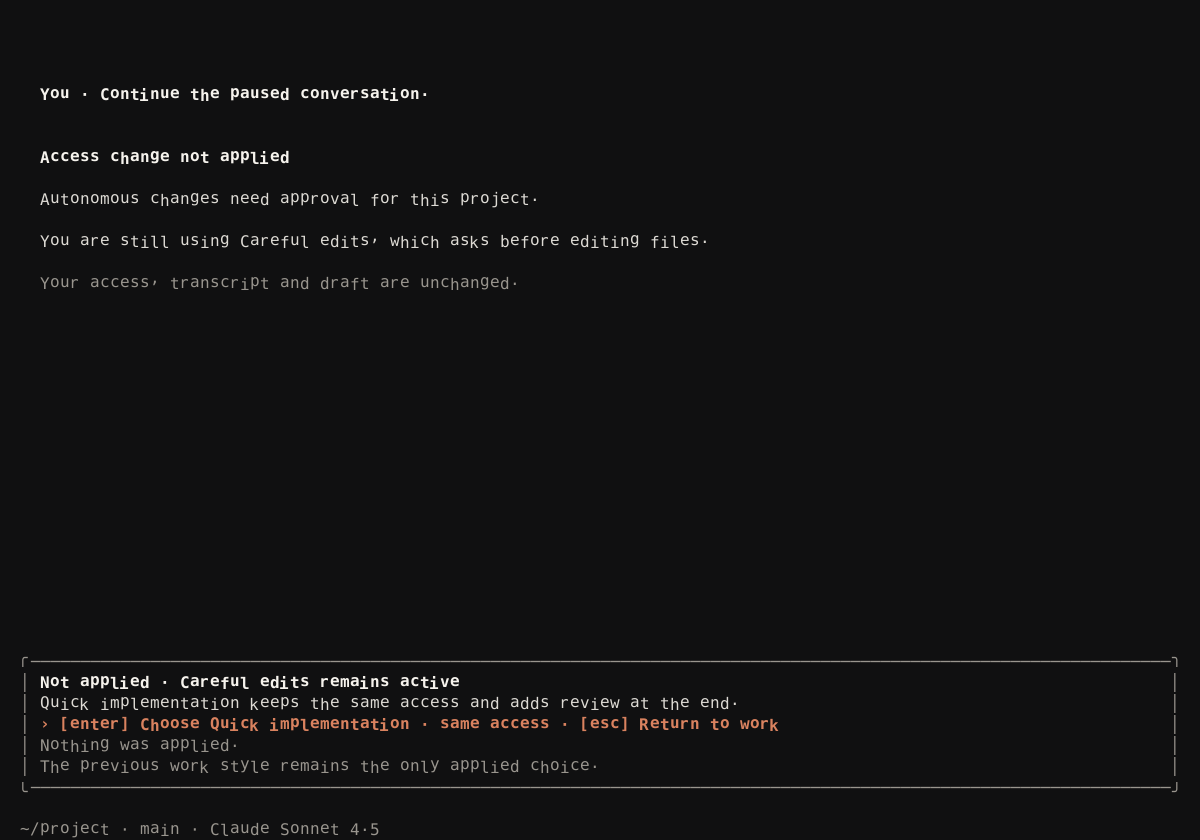
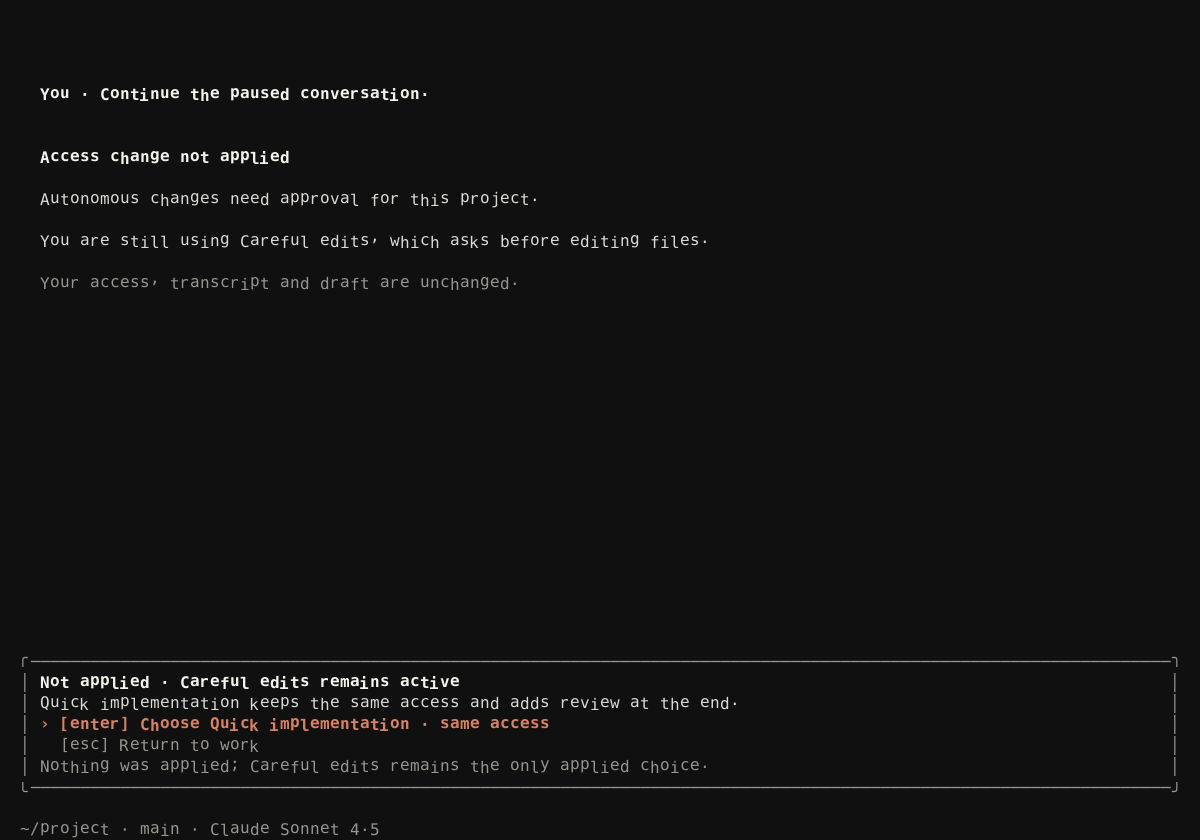
fix(mockups-v3): reconcile Flow 3 refusal action

Changed region(s): [[0.0308, 0.8667, 0.5858, 0.9286], [0.4933, 0.8357, 0.6475, 0.8667]]

diff --git a/tools-throwaway/mockup-harness-v3/tests/flow3_work_style_access.rs b/tools-throwaway/mockup-harness-v3/tests/flow3_work_style_access.rs
@@ -110,6 +110,18 @@ fn refusal_keeps_current_style_and_offers_one_safe_next_action() {
     assert!(text.contains("Quick implementation keeps the same access"));
     assert!(text.contains("[enter] Choose Quick implementation · same access"));
     assert!(text.contains("[esc] Return to work"));
+    let primary_line = text
+        .lines()
+        .find(|line| line.contains("[enter] Choose Quick implementation · same access"))
+        .expect("primary refusal recovery action must render");
+    let return_line = text
+        .lines()
+        .find(|line| line.contains("[esc] Return to work"))
+        .expect("secondary refusal return action must render");
+    assert_ne!(
+        primary_line, return_line,
+        "primary and secondary refusal actions need distinct visual rows"
+    );
     assert!(!text.contains("generic retry"));
     assert!(!text.contains("mode error"));
     assert_eq!(
@@ -228,6 +240,25 @@ fn cancel_and_refusal_preserve_old_configuration_with_safe_recovery() {
         refused.actions[0].label,
         "Choose Quick implementation · same access"
     );
+    assert_eq!(
+        refused.actions[0].action_id,
+        "action.mode-switch-refused.choose-unchanged"
+    );
+    assert_eq!(
+        refused.transitions[0].action_id,
+        "action.mode-switch-refused.choose-unchanged"
+    );
+    assert!(refused
+        .audit
+        .events
+        .iter()
+        .any(|event| event.action.as_ref().is_some_and(|action| {
+            action.action_id == "action.mode-switch-refused.choose-unchanged"
+        })));
+    assert!(refused.audit.transitions.iter().any(|transition| {
+        transition.action_id == "action.mode-switch-refused.choose-unchanged"
+    }));
+    assert!(!refused.to_json().contains("choose-safer"));
     assert_reconciled_hash(&refused, "work_style", true);
     assert_reconciled_hash(&refused, "pending_work_style", false);
     assert_reconciled_hash(&refused, "access_scope", true);
@@ -274,4 +305,19 @@ fn cancel_and_refusal_preserve_old_configuration_with_safe_recovery() {
     assert_reconciled_hash(&return_to_work, "work_style", true);
     assert_reconciled_hash(&return_to_work, "pending_work_style", true);
     assert_reconciled_hash(&return_to_work, "access_scope", true);
+}
+
+#[test]
+fn stale_refusal_action_identity_is_rejected_by_replay_validation() {
+    let mut replay =
+        replay_case("work-style-access-refused", 1).expect("refusal must replay safely");
+    replay.actions[0].action_id = "action.mode-switch-refused.choose-safer".to_owned();
+    replay.transitions[0].action_id = "action.mode-switch-refused.choose-safer".to_owned();
+
+    assert_eq!(
+        replay
+            .validate()
+            .expect_err("stale action ID must fail closed"),
+        "work-style refusal replay must use action.mode-switch-refused.choose-unchanged"
+    );
 }

diff --git a/tools-throwaway/mockup-harness-v3/src/scenario.rs b/tools-throwaway/mockup-harness-v3/src/scenario.rs
@@ -14,6 +14,7 @@ const FLOW2_SUBMITTED_PROMPT: &str = "Check the retry path in @src/net/retry_pol
 Then explain the failure path that still needs coverage before the merge; include a concise test plan with the visible recovery behavior.\n\
 Keep the summary short before we merge.";
 const FLOW2_LATER_DRAFT: &str = "Add a short note about the remaining test hunk.";
+const REFUSAL_UNCHANGED_ACTION_ID: &str = "action.mode-switch-refused.choose-unchanged";
 
 #[derive(Clone, Debug, Eq, PartialEq)]
 pub struct ScenarioState {
@@ -545,6 +546,26 @@ impl CaseReplay {
         {
             return Err(
                 "case replay transition does not bind the exact action and states".to_owned(),
+            );
+        }
+        if self.case_id == "work-style-access-refused"
+            && (action.action_id != REFUSAL_UNCHANGED_ACTION_ID
+                || transition.action_id != REFUSAL_UNCHANGED_ACTION_ID
+                || !self.audit.events.iter().any(|event| {
+                    event
+                        .action
+                        .as_ref()
+                        .is_some_and(|action| action.action_id == REFUSAL_UNCHANGED_ACTION_ID)
+                })
+                || !self
+                    .audit
+                    .transitions
+                    .iter()
+                    .any(|transition| transition.action_id == REFUSAL_UNCHANGED_ACTION_ID))
+        {
+            return Err(
+                "work-style refusal replay must use action.mode-switch-refused.choose-unchanged"
+                    .to_owned(),
             );
         }
         if self.preserved_field_hashes.is_empty()
@@ -1749,7 +1770,7 @@ fn work_style_access_refused() -> (
     after.virtual_tick = 1;
     after.state_hash = state_hash(&after);
     let action = ActionEvidence {
-        action_id: "action.mode-switch-refused.choose-safer".to_owned(),
+        action_id: REFUSAL_UNCHANGED_ACTION_ID.to_owned(),
         label: "Choose Quick implementation · same access".to_owned(),
         enabled: true,
         automatic: false,

diff --git a/tools-throwaway/mockup-harness-v3/src/screens/work_configuration.rs b/tools-throwaway/mockup-harness-v3/src/screens/work_configuration.rs
@@ -1213,19 +1213,19 @@ fn render_mode_switch_refused(
     dock_line(
         canvas,
         DOCK_TOP + 3,
-        "› [enter] Choose Quick implementation · same access · [esc] Return to work",
+        "› [enter] Choose Quick implementation · same access",
         TextStyle::accent(),
     )?;
     dock_line(
         canvas,
         DOCK_TOP + 4,
-        "Nothing was applied.",
+        "  [esc] Return to work",
         TextStyle::muted(),
     )?;
     dock_line(
         canvas,
         DOCK_TOP + 5,
-        "The previous work style remains the only applied choice.",
+        "Nothing was applied; Careful edits remains the only applied choice.",
         TextStyle::muted(),
     )?;
 
@@ -1271,7 +1271,7 @@ fn render_mode_switch_refused(
             fixture_id,
             "primary-action",
             "action.mode-switch-refused.choose-unchanged",
-            reference(DOCK_TOP + 3, 4, 73),
+            reference(DOCK_TOP + 3, 4, 52),
             "focused",
             Some(action(
                 "action.mode-switch-refused.choose-unchanged",
@@ -1284,7 +1284,7 @@ fn render_mode_switch_refused(
             fixture_id,
             "secondary-action",
             "action.mode-switch-refused.return",
-            reference(DOCK_TOP + 3, 55, 83),
+            reference(DOCK_TOP + 4, 4, 25),
             "summary",
             Some(action(
                 "action.mode-switch-refused.return",
